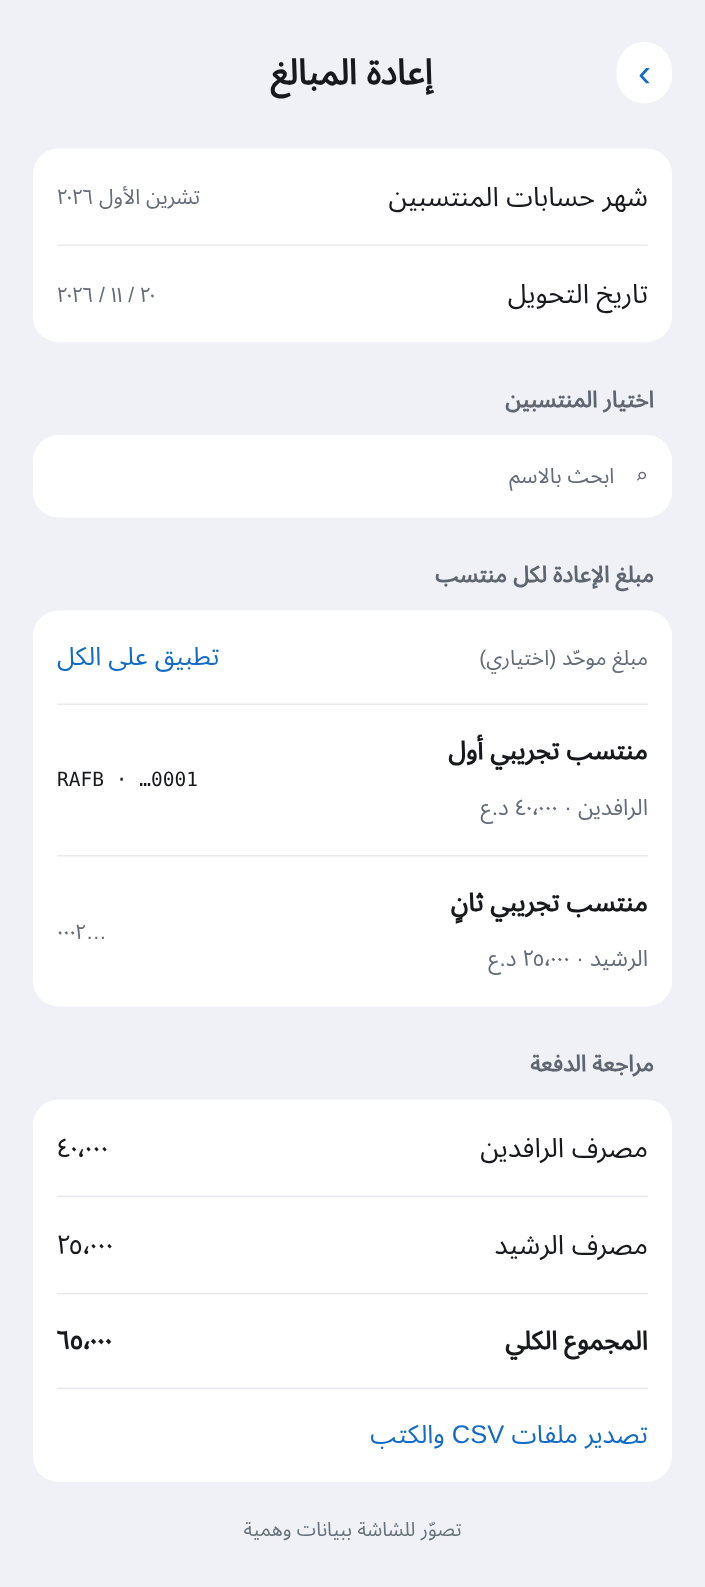
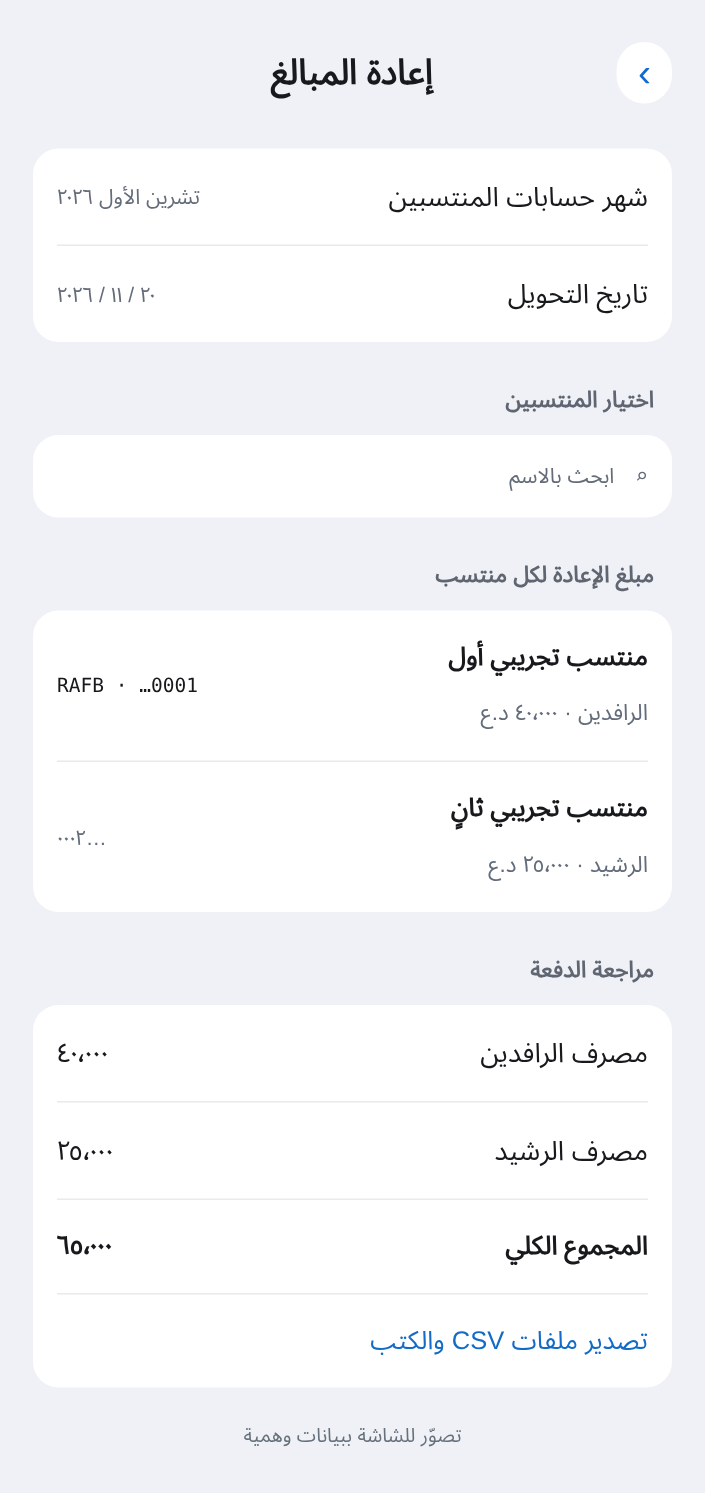
Require a separate refund amount for each employee

diff --git a/ci/employee_refund_test/main.swift b/ci/employee_refund_test/main.swift
@@ -23,17 +23,20 @@ let blocks = try EmployeeRefundExport.letter(other, batch: batch, letters: .init
 guard case .table(let table) = blocks[5] else { fatalError() }
 precondition(table.rows == [["OTHR","2500","OTHRIQ00"], ["RSHD","4500","RSHDIQ00"], ["المجموع الكلي","7000",""]])
 var refs = Set<String>(), csvSum: Int64 = 0, offset = 0
+var expectedAmounts = [iban("RAFB", 1): "10000", iban("RSHD", 2): "4000", iban("OTHR", 3): "2500", iban("RSHD", 4): "500"]
 for group in batch.groups {
     let csv = EmployeeRefund.csv(group, batch: batch, day: "20260101")
     for line in String(decoding: csv, as: UTF8.self).components(separatedBy: "\r\n").dropFirst() {
         let fields = line.components(separatedBy: "|")
         precondition(fields.count == 11 && refs.insert(fields[0]).inserted && fields[6] == group.bank.bic)
         precondition(EmployeeRefund.bankCode(fields[8]) == group.code && fields[9].contains("إعادة"))
+        precondition(expectedAmounts.removeValue(forKey: fields[8]) == fields[4])
         csvSum += Int64(fields[4])!
     }
     offset += group.payments.count
 }
-precondition(csvSum == batch.total && offset == 4)
+precondition(expectedAmounts.isEmpty && csvSum == batch.total && offset == 4)
+precondition((try? plan([entries[0], entry("RSHD", 2, "")])) == nil)
 for (sample, count) in [(entries, 5), ([entries[0]], 2), ([entries[1],entries[3]], 2)] {
     let urls = try EmployeeRefundExport.make(try plan(sample), date: Date(), letters: .init())
     precondition(urls.count == count && Set(urls.map(\.lastPathComponent)).count == count)

diff --git a/SalaryApp/EmployeeRefundView.swift b/SalaryApp/EmployeeRefundView.swift
@@ -15,7 +15,6 @@ struct EmployeeRefundView: View {
     @State private var completedSearch = ""
     @State private var rows: [Row] = []
     @State private var banks: [String: RefundBank] = [:]
-    @State private var commonAmount = ""
     @State private var source = ""
     @State private var date = Date.now
     @State private var payer = UserDefaults.standard.string(forKey: "bankStatementAccountName") ?? ""
@@ -50,14 +49,6 @@ struct EmployeeRefundView: View {
             }
             if !rows.isEmpty {
                 Section(tr("مبلغ الإعادة لكل منتسب", "Refund amount per employee")) {
-                    if rows.count > 1 {
-                        HStack {
-                            TextField(tr("مبلغ موحّد (اختياري)", "Common amount (optional)"), text: $commonAmount).keyboardType(.numberPad)
-                            Button(tr("تطبيق على الكل", "Apply to all")) {
-                                for index in rows.indices { rows[index].amount = commonAmount }
-                            }.buttonStyle(.borderless).disabled(EmployeeRefund.amount(commonAmount) == nil)
-                        }
-                    }
                     ForEach($rows) { $row in
                         VStack(alignment: .leading, spacing: 5) {
                             HStack {

diff --git a/AGENTS.md b/AGENTS.md
@@ -119,7 +119,7 @@
 - ملف واحد قد يحتوي ورقتين (رواتب + استقطاعات). الشهر يُعرف من اسم الملف أو يُختار في نافذة المراجعة.
 - الربط بين الرواتب والاستقطاعات والملاك بـ `matchKey` = الاسم بعد التوحيد وبلا مسافات.
 
-- **إعادة المبالغ (الآيفون):** التقارير ← ملفات التحويل ← إعادة المبالغ. يختار المستخدم منتسبين من شهر الرواتب المعروض ومبالغهم بالدينار. تُقرأ آيباناتهم من صفوف الرواتب ويُعاد التحقق من اختيارهم قبل التصدير. ملف CSV مستقل لكل رمز مصرف في الآيبان، وكتاب للرافدين RAFB وكتاب واحد للرشيد وسائر المصارف، لكل مجموعة موجودة فقط. جدول الكتاب ومجموعه من الدفعة نفسها؛ يمنع تكرار آيبان أو إرسال ملف ناقص. لا تخصم هذه المبالغ من الرواتب أو سجلات الاستقطاع. الميزة تجهّز ملفات، ولا تسجل تنفيذ حركة مصرفية.
+- **إعادة المبالغ (الآيفون):** التقارير ← ملفات التحويل ← إعادة المبالغ. يختار المستخدم منتسبين من شهر الرواتب المعروض ويدخل مبلغاً مستقلاً بالدينار لكل اسم. يبدأ مبلغ المنتسب الجديد فارغاً ويلزم إدخاله قبل التصدير. تُقرأ آيباناتهم من صفوف الرواتب ويُعاد التحقق من اختيارهم قبل التصدير. ملف CSV مستقل لكل رمز مصرف في الآيبان، وكتاب للرافدين RAFB وكتاب واحد للرشيد وسائر المصارف، لكل مجموعة موجودة فقط. جدول الكتاب ومجموعه من الدفعة نفسها؛ يمنع تكرار آيبان أو إرسال ملف ناقص. لا تخصم هذه المبالغ من الرواتب أو سجلات الاستقطاع. الميزة تجهّز ملفات، ولا تسجل تنفيذ حركة مصرفية.
 
 ### الكشوف المصدّرة (A4، اتجاه حسب عرض الأعمدة)
 - **الخط المعتمد: Arial** في PDF وExcel، بما يشمل العناوين والجداول والمبالغ والتذييل. في PDF استخدم `ReportFont.regular` و`ReportFont.bold` للرسم وقياس الأعمدة، مع إبقاء أحجام الخط ونماذج الكشوف المعتمدة.
